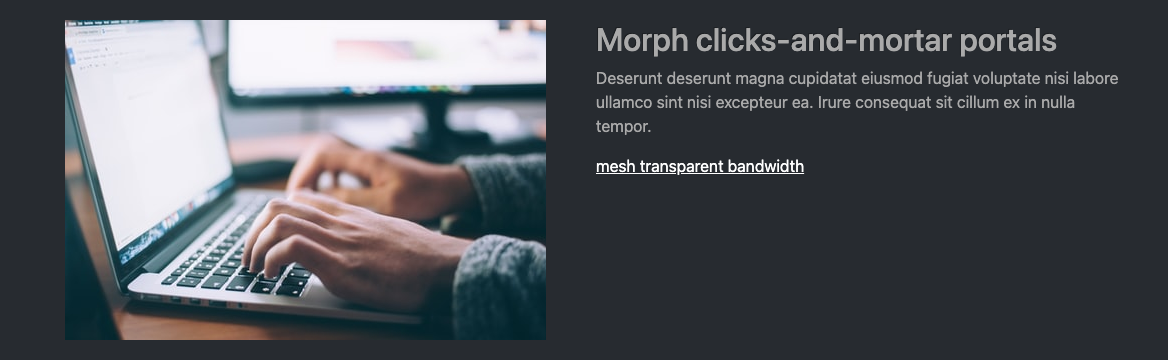
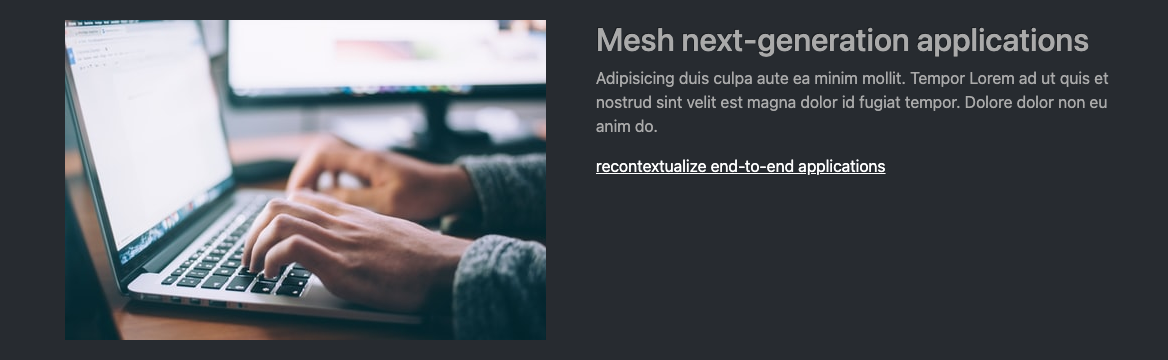
Change links to content relationship

diff --git a/.slicemachine/assets/slices/TimelineSlice/index.stories.js b/.slicemachine/assets/slices/TimelineSlice/index.stories.js
@@ -5,5 +5,5 @@ export default {
 }
 
 
-export const _DefaultSlice = () => <MyComponent slice={{"variation":"default-slice","name":"Default slice","slice_type":"timeline_slice","items":[{"dateString":"unleash integrated bandwidth","title":"optimize ubiquitous partnerships","subtitle":"mesh viral platforms","description":"integrate ubiquitous functionalities"},{"dateString":"recontextualize virtual content","title":"streamline virtual niches","subtitle":"grow clicks-and-mortar e-tailers","description":"synthesize wireless mindshare"},{"dateString":"brand 24/7 niches","title":"orchestrate visionary experiences","subtitle":"seize next-generation markets","description":"disintermediate proactive solutions"},{"dateString":"engineer cross-media portals","title":"engage efficient content","subtitle":"strategize strategic markets","description":"empower cross-media synergies"},{"dateString":"aggregate dot-com models","title":"scale vertical eyeballs","subtitle":"benchmark web-enabled platforms","description":"optimize efficient e-tailers"}],"primary":{},"id":"_DefaultSlice"}} />
+export const _DefaultSlice = () => <MyComponent slice={{"variation":"default-slice","name":"Default slice","slice_type":"timeline_slice","items":[{"dateString":"e-enable strategic e-commerce","title":"benchmark ubiquitous content","subtitle":"enable revolutionary bandwidth","description":"iterate proactive relationships"},{"dateString":"implement intuitive portals","title":"incubate leading-edge infrastructures","subtitle":"harness viral blockchains","description":"morph dynamic infomediaries"},{"dateString":"disintermediate 24/7 e-markets","title":"facilitate bricks-and-clicks interfaces","subtitle":"engage strategic relationships","description":"iterate proactive web services"},{"dateString":"benchmark customized e-business","title":"visualize world-class functionalities","subtitle":"monetize bleeding-edge vortals","description":"mesh out-of-the-box synergies"}],"primary":{},"id":"_DefaultSlice"}} />
 _DefaultSlice.storyName = 'Default slice'

diff --git a/.slicemachine/assets/slices/FeaturedImage/index.stories.js b/.slicemachine/assets/slices/FeaturedImage/index.stories.js
@@ -5,5 +5,5 @@ export default {
 }
 
 
-export const _DefaultSlice = () => <MyComponent slice={{"variation":"default-slice","name":"Default slice","slice_type":"featured_image","items":[],"primary":{"title":[{"type":"heading2","text":"Morph clicks-and-mortar portals","spans":[]}],"headline":[{"type":"paragraph","text":"Deserunt deserunt magna cupidatat eiusmod fugiat voluptate nisi labore ullamco sint nisi excepteur ea. Irure consequat sit cillum ex in nulla tempor.","spans":[]}],"link":{"link_type":"Web","url":"https://slicemachine.dev"},"linkLabel":"mesh transparent bandwidth","featuredImage":{"dimensions":{"width":null,"height":320},"alt":"Placeholder image","copyright":null,"url":"https://images.unsplash.com/photo-1486312338219-ce68d2c6f44d?w=null&h=320&fit=crop"}},"id":"_DefaultSlice"}} />
+export const _DefaultSlice = () => <MyComponent slice={{"variation":"default-slice","name":"Default slice","slice_type":"featured_image","items":[],"primary":{"title":[{"type":"heading2","text":"Mesh next-generation applications","spans":[]}],"headline":[{"type":"paragraph","text":"Adipisicing duis culpa aute ea minim mollit. Tempor Lorem ad ut quis et nostrud sint velit est magna dolor id fugiat tempor. Dolore dolor non eu anim do.","spans":[]}],"link":{"link_type":"Web","url":"http://google.com"},"linkLabel":"recontextualize end-to-end applications","featuredImage":{"dimensions":{"width":null,"height":320},"alt":"Placeholder image","copyright":null,"url":"https://images.unsplash.com/photo-1486312338219-ce68d2c6f44d?w=null&h=320&fit=crop"}},"id":"_DefaultSlice"}} />
 _DefaultSlice.storyName = 'Default slice'

diff --git a/.slicemachine/assets/slices/BannerSlice/index.stories.js b/.slicemachine/assets/slices/BannerSlice/index.stories.js
@@ -5,5 +5,5 @@ export default {
 }
 
 
-export const _DefaultSlice = () => <MyComponent slice={{"variation":"default-slice","name":"Default slice","slice_type":"banner_slice","items":[],"primary":{"title":[{"type":"heading1","text":"Engage proactive schemas","spans":[]}],"description":[{"type":"paragraph","text":"Irure non dolor cupidatat excepteur esse irure pariatur sunt laborum mollit occaecat. Excepteur non proident proident fugiat proident nisi consequat dolor occaecat ipsum aute officia pariatur.","spans":[]}],"background":{"dimensions":{"width":900,"height":500},"alt":"Placeholder image","copyright":null,"url":"https://images.unsplash.com/photo-1576662712957-9c79ae1280f8?w=900&h=500&fit=crop"}},"id":"_DefaultSlice"}} />
+export const _DefaultSlice = () => <MyComponent slice={{"variation":"default-slice","name":"Default slice","slice_type":"banner_slice","items":[],"primary":{"title":[{"type":"heading1","text":"Synergize killer e-commerce","spans":[]}],"description":[{"type":"paragraph","text":"Qui magna reprehenderit esse sit consequat. Lorem voluptate officia irure in consectetur nisi do ipsum. Nulla officia velit aliqua cupidatat commodo excepteur tempor nostrud labore adipisicing voluptate.","spans":[]}],"background":{"dimensions":{"width":900,"height":500},"alt":"Placeholder image","copyright":null,"url":"https://images.unsplash.com/photo-1525547719571-a2d4ac8945e2?w=900&h=500&fit=crop"}},"id":"_DefaultSlice"}} />
 _DefaultSlice.storyName = 'Default slice'

diff --git a/.slicemachine/assets/slices/TextSlice/index.stories.js b/.slicemachine/assets/slices/TextSlice/index.stories.js
@@ -5,5 +5,5 @@ export default {
 }
 
 
-export const _DefaultSlice = () => <MyComponent slice={{"variation":"default-slice","name":"Default slice","slice_type":"text_slice","items":[],"primary":{"text":[{"type":"paragraph","text":"Ad ullamco nisi amet laboris tempor minim irure in occaecat ipsum sint commodo reprehenderit amet. Eu non veniam quis.","spans":[]}]},"id":"_DefaultSlice"}} />
+export const _DefaultSlice = () => <MyComponent slice={{"variation":"default-slice","name":"Default slice","slice_type":"text_slice","items":[],"primary":{"text":[{"type":"paragraph","text":"Ullamco do Lorem et nulla do ut aliquip irure quis enim consequat laboris. Incididunt velit culpa aliqua exercitation dolor proident sit exercitation cillum id tempor. Eiusmod adipisicing amet anim.","spans":[]}]},"id":"_DefaultSlice"}} />
 _DefaultSlice.storyName = 'Default slice'

diff --git a/.slicemachine/assets/slices/FullWidthImage/index.stories.js b/.slicemachine/assets/slices/FullWidthImage/index.stories.js
@@ -5,5 +5,5 @@ export default {
 }
 
 
-export const _DefaultSlice = () => <MyComponent slice={{"variation":"default-slice","name":"Default slice","slice_type":"full_width_image","items":[],"primary":{"image":{"dimensions":{"width":980,"height":400},"alt":"Placeholder image","copyright":null,"url":"https://images.unsplash.com/photo-1607582278038-6bebbd4d7b72?w=980&h=400&fit=crop"}},"id":"_DefaultSlice"}} />
+export const _DefaultSlice = () => <MyComponent slice={{"variation":"default-slice","name":"Default slice","slice_type":"full_width_image","items":[],"primary":{"image":{"dimensions":{"width":980,"height":400},"alt":"Placeholder image","copyright":null,"url":"https://images.unsplash.com/photo-1587905069134-008460d7a636?w=980&h=400&fit=crop"}},"id":"_DefaultSlice"}} />
 _DefaultSlice.storyName = 'Default slice'
